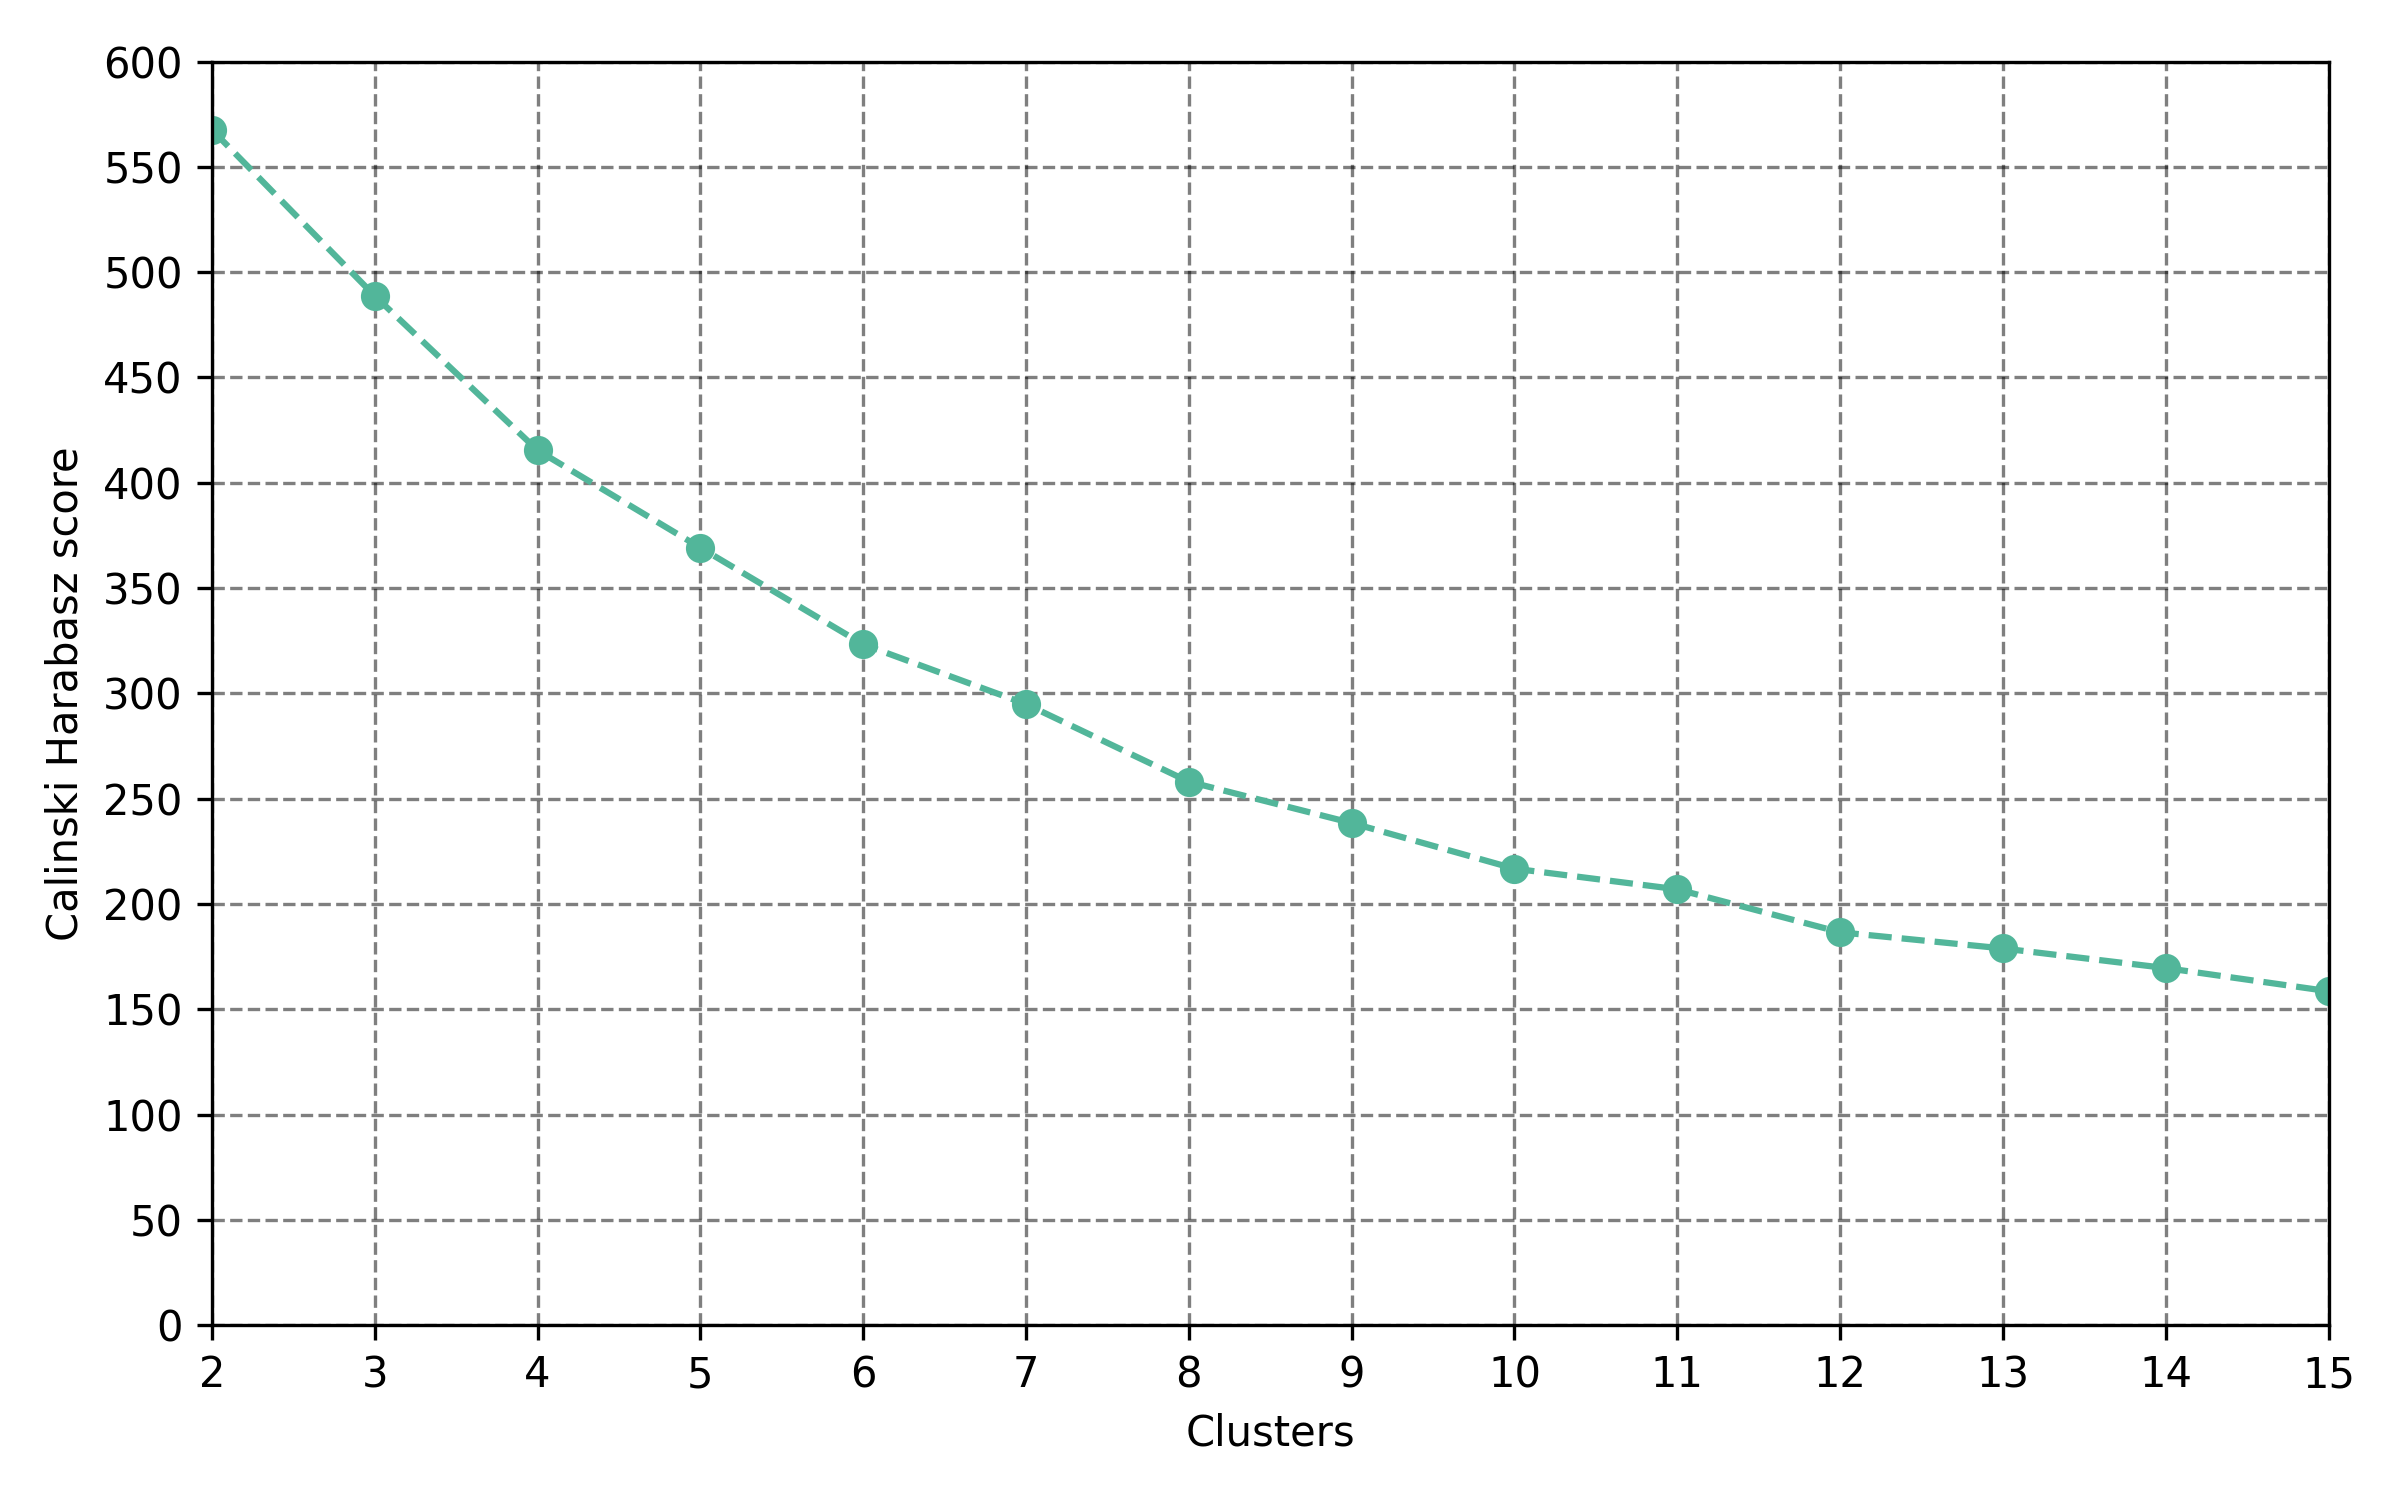
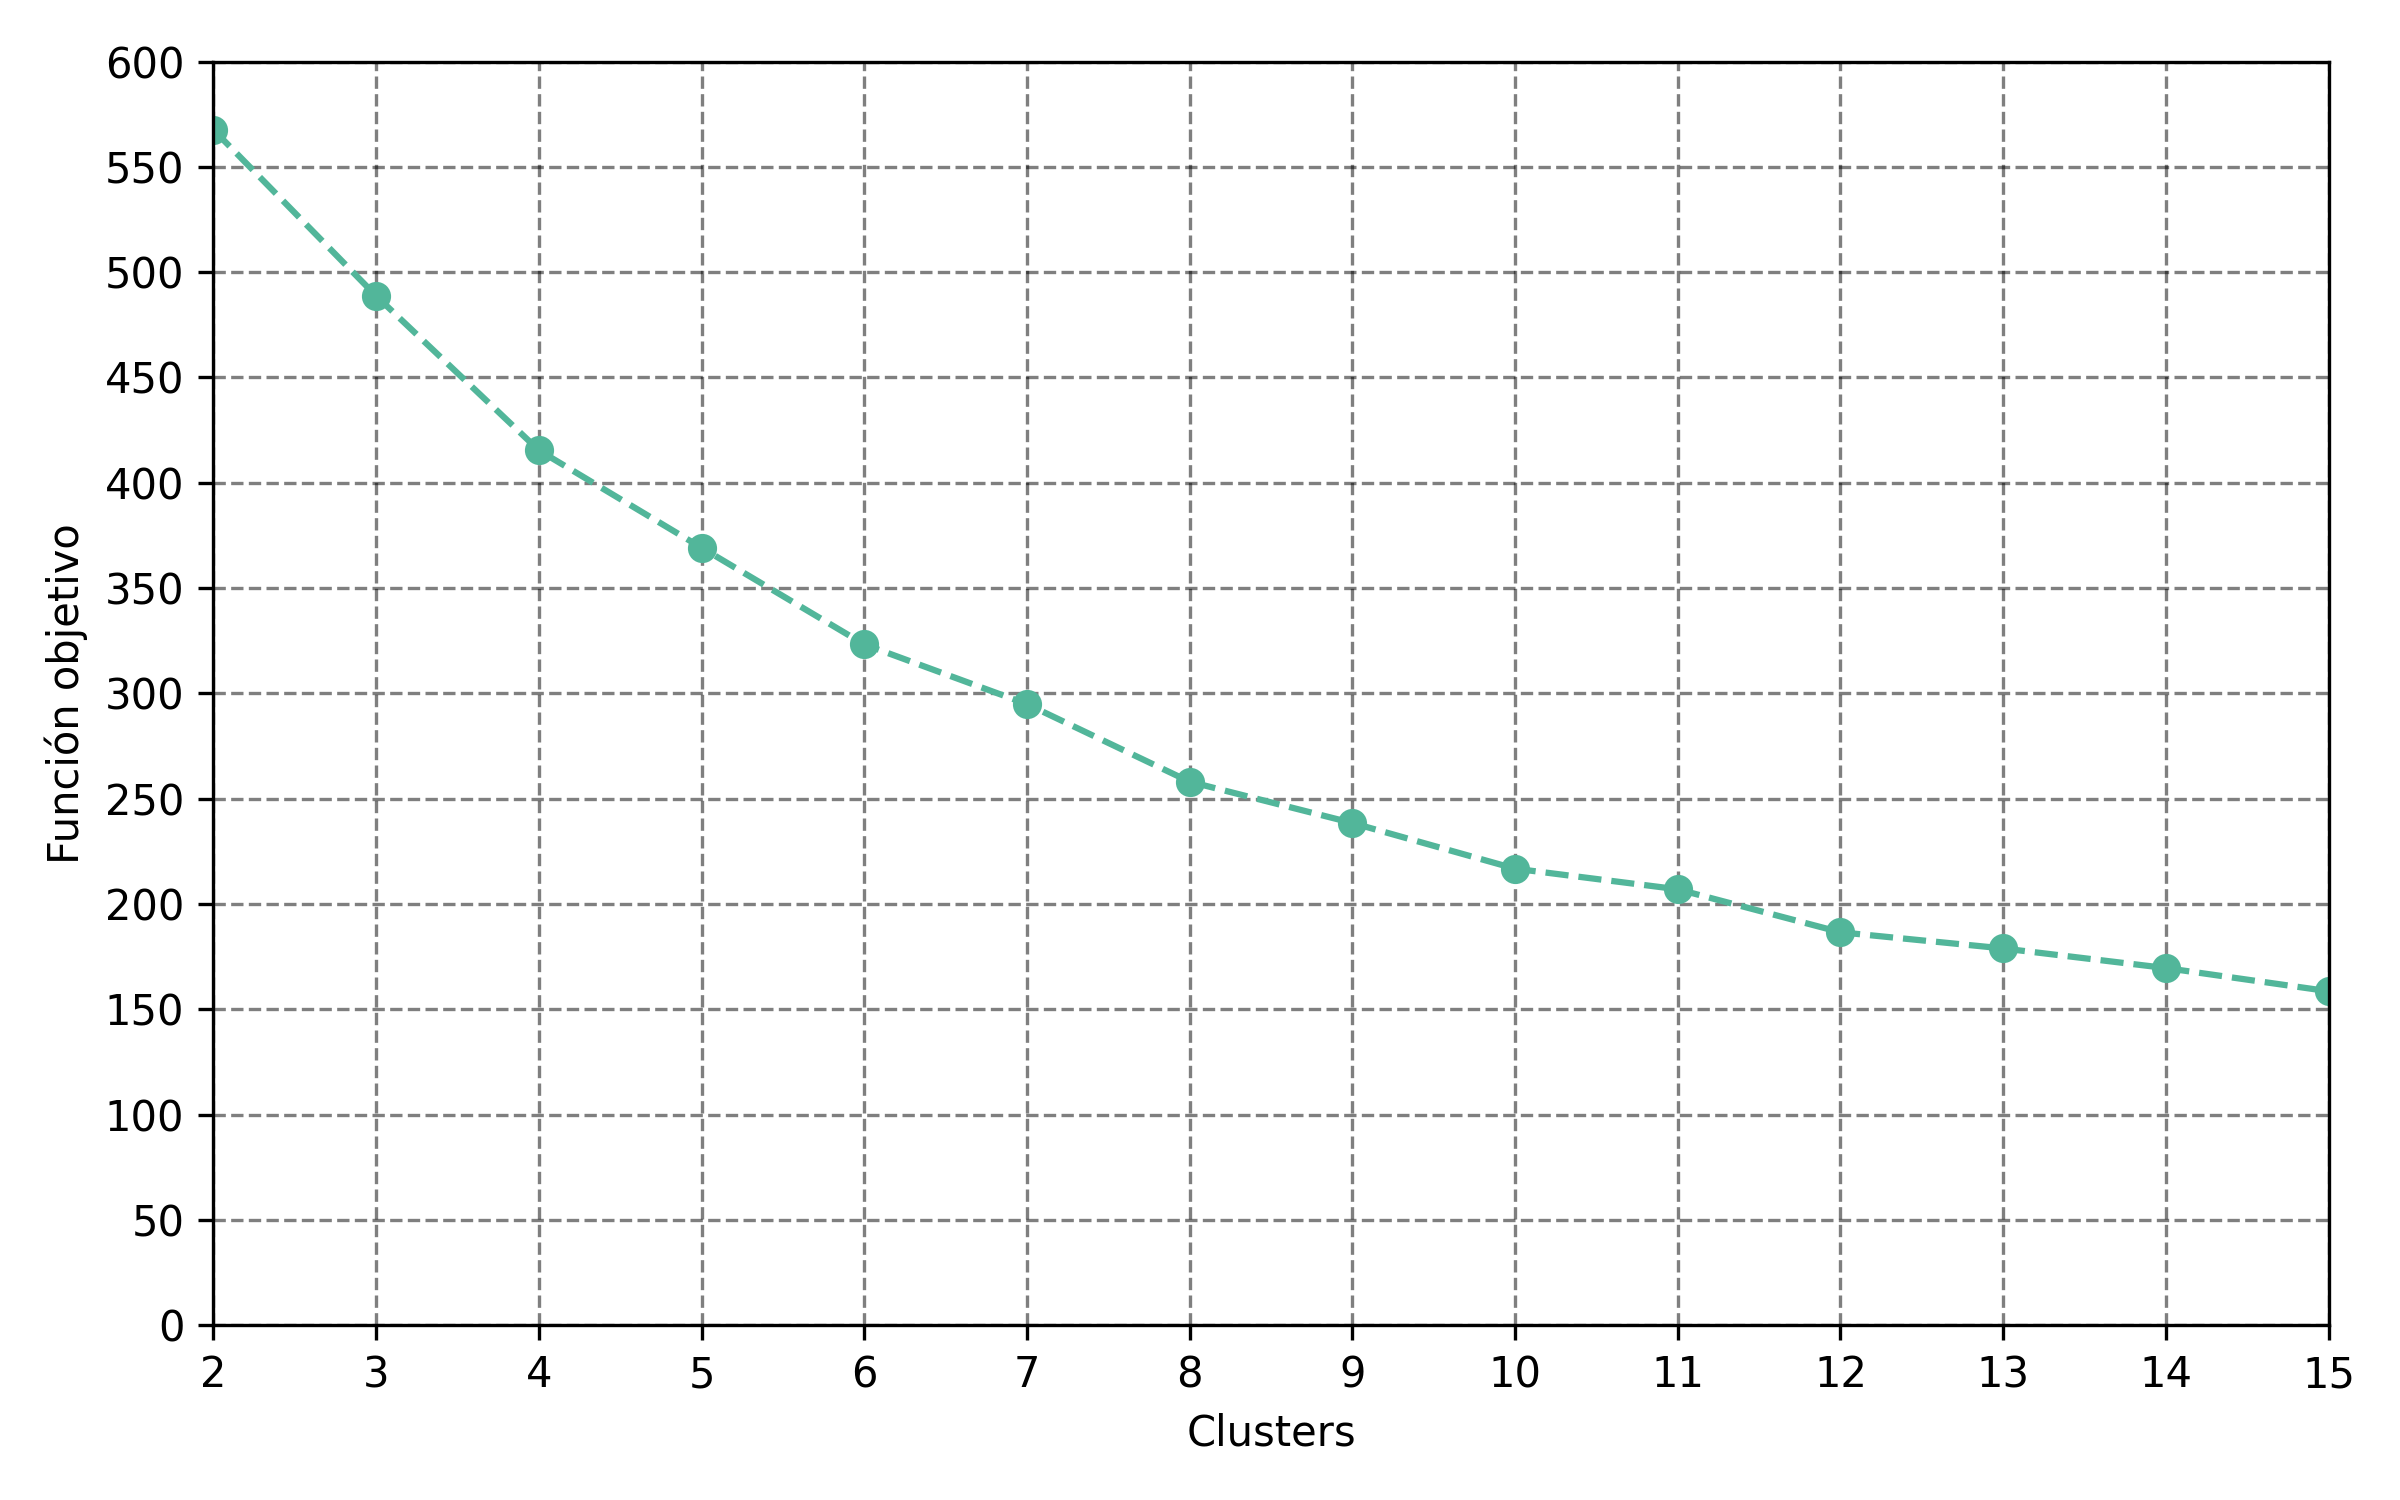
Update ylabel

diff --git a/Patrones/Tarea_04/Scripts/Problema_03/graphics_train_scores.py b/Patrones/Tarea_04/Scripts/Problema_03/graphics_train_scores.py
@@ -20,7 +20,7 @@ plt.xlim(2, 15)
 plt.ylim(0, 600)
 plt.xticks(linspace(2, 15, 14))
 plt.yticks(linspace(0, 600, 13))
-plt.ylabel("Calinski Harabasz score")
+plt.ylabel("Función objetivo")
 plt.xlabel("Clusters")
 plt.grid(ls="--",
          color="#000000",

diff --git a/Patrones/Tarea_04/Scripts/Problema_03/graphics_validation_scores.py b/Patrones/Tarea_04/Scripts/Problema_03/graphics_validation_scores.py
@@ -20,7 +20,7 @@ plt.xlim(2, 15)
 plt.ylim(0, 700)
 plt.xticks(linspace(2, 15, 14))
 plt.yticks(linspace(0, 700, 15))
-plt.ylabel("Calinski Harabasz score")
+plt.ylabel("Función objetivo")
 plt.xlabel("Clusters")
 plt.grid(ls="--",
          color="#000000",
